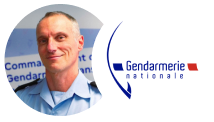
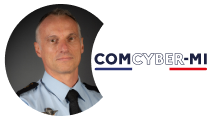
[ACCUEIL] Ajoute le mot du général Husson

diff --git a/mon-aide-cyber-ui/src/Accueil.tsx b/mon-aide-cyber-ui/src/Accueil.tsx
@@ -1,19 +1,23 @@
 import { FormulaireDeContact } from './composants/communs/FormulaireDeContact/FormulaireDeContact.tsx';
 import { ActionsPiedDePage } from './composants/communs/ActionsPiedDePage.tsx';
+import { useCallback, useState } from 'react';
 
 export const Accueil = () => {
-  // const [motDGClique, setMotDGClique] = useState<boolean>(true);
-  // const [motGeneralClique, setMotGeneralClique] = useState<boolean>(false);
-  //
-  // const surCliqueMotDG = useCallback(() => {
-  //   setMotGeneralClique(false);
-  //   setMotDGClique(true);
-  // }, []);
-  //
-  // const surCliqueMotGeneral = useCallback(() => {
-  //   setMotDGClique(false);
-  //   setMotGeneralClique(true);
-  // }, []);
+  const [motDGClique, setMotDGClique] = useState<boolean>(true);
+  const [motGeneralClique, setMotGeneralClique] = useState<boolean>(false);
+  const couleurSlide: 'mode-fonce' | 'mode-clair' = motGeneralClique
+    ? 'mode-clair'
+    : 'mode-fonce';
+
+  const surCliqueMotDG = useCallback(() => {
+    setMotGeneralClique(false);
+    setMotDGClique(true);
+  }, []);
+
+  const surCliqueMotGeneral = useCallback(() => {
+    setMotDGClique(false);
+    setMotGeneralClique(true);
+  }, []);
 
   return (
     <main role="main">
@@ -164,7 +168,7 @@ export const Accueil = () => {
             </div>
           </div>
         </div>
-        <div className="mode-fonce">
+        <div className={couleurSlide}>
           <div className="fr-container">
             <img
               id="guillemets"
@@ -196,54 +200,54 @@ export const Accueil = () => {
                     </div>
                   </div>
                 </div>
-                {/*<div className="fr-col-6"></div>*/}
-                {/*<div id="slide-general" className="fr-container">*/}
-                {/*  <div className="fr-grid-row les-mots-de">*/}
-                {/*    <div className="titre">Le mot du Général</div>*/}
-                {/*    <div className="contenu">*/}
-                {/*      Lorem ipsum dolor sit amet, consectetur adipiscing elit.*/}
-                {/*      Nulla eget condimentum orci, faucibus viverra ipsum.*/}
-                {/*      Aliquam sed lorem turpis. Nunc facilisis leo nec metus*/}
-                {/*      rutrum, eget scelerisque dolor mollis. Curabitur at*/}
-                {/*      tortor non neque hendrerit egestas et vel massa. Integer*/}
-                {/*      ac lectus vitae lacus mollis varius at at quam. Proin*/}
-                {/*      sagittis libero ex. Nunc iaculis non dui vel.*/}
-                {/*    </div>*/}
-                {/*    <div className="personne">*/}
-                {/*      <div className="illustration">*/}
-                {/*        <img*/}
-                {/*          src="/images/illustration-general-gendarmerie.png"*/}
-                {/*          alt="Commandant de la Gendarmerie dans le cyberespace"*/}
-                {/*        />*/}
-                {/*      </div>*/}
-                {/*      <div className="nom">Général Husson</div>*/}
-                {/*      <div>*/}
-                {/*        Commandant de la Gendarmerie dans le cyberespace*/}
-                {/*      </div>*/}
-                {/*    </div>*/}
-                {/*  </div>*/}
-                {/*</div>*/}
+                <div className="fr-col-6"></div>
+                <div id="slide-general" className="fr-container">
+                  <div className="fr-grid-row les-mots-de">
+                    <div className="titre">Le mot du Général</div>
+                    <div className="contenu">
+                      L’accompagnement des différentes entités dans leur vie
+                      numérique constitue un dénominateur commun de tous les
+                      acteurs engagés dans la lutte contre les cybermenaces,
+                      dont le commandement du ministère de l’Intérieur dans le
+                      cyberespace (COMCYBER-MI). MonAideCyber permettra sans
+                      aucun doute à ces mêmes entités d’améliorer leur niveau de
+                      maturité cyber, et in fine leur cyberprotection.
+                    </div>
+                    <div className="personne">
+                      <div className="illustration">
+                        <img
+                          src="/images/illustration-general-gendarmerie.png"
+                          alt="Commandant de la Gendarmerie dans le cyberespace"
+                        />
+                      </div>
+                      <div className="nom">Général Husson</div>
+                      <div>
+                        Commandant de la Gendarmerie dans le cyberespace
+                      </div>
+                    </div>
+                  </div>
+                </div>
               </div>
-              {/*<div className="lien-slider fr-grid-row fr-grid-row--center">*/}
-              {/*  <div>*/}
-              {/*    <a*/}
-              {/*      href="#slide-dg"*/}
-              {/*      onClick={surCliqueMotDG}*/}
-              {/*      className={motDGClique ? 'slider-active' : ''}*/}
-              {/*    >*/}
-              {/*      &nbsp;*/}
-              {/*    </a>*/}
-              {/*  </div>*/}
-              {/*  <div>*/}
-              {/*    <a*/}
-              {/*      href="#slide-general"*/}
-              {/*      onClick={surCliqueMotGeneral}*/}
-              {/*      className={motGeneralClique ? 'slider-active' : ''}*/}
-              {/*    >*/}
-              {/*      &nbsp;*/}
-              {/*    </a>*/}
-              {/*  </div>*/}
-              {/*</div>*/}
+              <div className="lien-slider fr-grid-row fr-grid-row--center">
+                <div>
+                  <a
+                    href="#slide-dg"
+                    onClick={surCliqueMotDG}
+                    className={motDGClique ? 'slider-active' : ''}
+                  >
+                    &nbsp;
+                  </a>
+                </div>
+                <div>
+                  <a
+                    href="#slide-general"
+                    onClick={surCliqueMotGeneral}
+                    className={motGeneralClique ? 'slider-active' : ''}
+                  >
+                    &nbsp;
+                  </a>
+                </div>
+              </div>
             </div>
           </div>
         </div>

diff --git a/mon-aide-cyber-ui/src/assets/styles/index.scss b/mon-aide-cyber-ui/src/assets/styles/index.scss
@@ -5,6 +5,7 @@
 @import 'connectez-vous';
 @import 'icones';
 @import 'mode-fonce';
+@import 'mode-clair';
 @import 'mise-en-page';
 @import 'questionnaire';
 @import 'diagnostics';

diff --git a/mon-aide-cyber-ui/src/assets/styles/_mode-clair.scss b/mon-aide-cyber-ui/src/assets/styles/_mode-clair.scss
@@ -1,0 +1,4 @@
+.mode-clair {
+  @extend .mode-fonce;
+  background-color: var(--couleurs-mac-violet-mode-fonce);
+}
